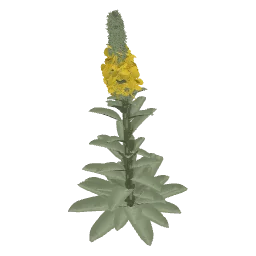
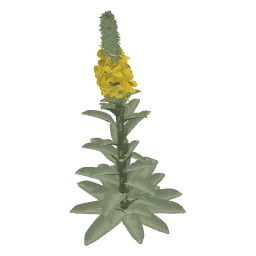
feat(templates): the mullein's rosette sits on a spiral
The 26–42 rosette leaves no longer sit on a 4.5 cm crown stem 3.2 cm
thick that only anchored them and showed as a blob in the middle of the
young rosette. `spiral` gives their points over the same height and
`instance_from_points` places them. The curve that grew the stub goes,
the size curve already lets every leaf start in turn.

Refs #490

Changed region(s): [[0.25, 0.0312, 0.75, 0.9688]]

diff --git a/docs/PLANT_TEMPLATES.md b/docs/PLANT_TEMPLATES.md
@@ -410,7 +410,7 @@ Family Scrophulariaceae.
 
 **Structure:** A biennial 1–2 m tall. The rosette is 30–60 cm across, its leaves oblong, 15–45 cm, soft, grey-green, with a wavy margin, the inner ones more upright. The stem is stout and unbranched, its leaves get smaller toward the top and stand up more. The spike is 20–50 cm long and about 3–5 cm thick, packed with buds; only a band of it flowers at a time. The flowers are 1.5–3 cm across, five broad rounded yellow petals, almost flat.
 
-**Template:** a crown `stem` 4.5 cm long carries the rosette as one spiral: 26–42 leaves at the golden angle from its base to its tip. A curve of `alpha` lays the outer ones almost flat (0.26 rad) and stands the inner ones up (1.2 rad), a second one makes them longest a little inside the rim (up to 40–55 cm, by a `random` with `once` that scales all leaves of a plant) and less than half of that in the middle, and a `random` per leaf varies both. So the rosette is a mound 60–90 cm across, not a flat disc. A leaf is a node group around a `leaf_surface` with 5 variants and a wavy margin, grey-green with pale veins. The rosette bends its leaves less than the stem does (a `deform` of its own), so the outer ones lie on the ground instead of in it, and the crown has no `noise`: on a path this short it tilts the leaves every way.
+**Template:** a `spiral` that rises 4.5 cm carries the rosette: 26–42 leaves at the golden angle from the lowest to the highest. A curve of `alpha` lays the outer ones almost flat (0.26 rad) and stands the inner ones up (1.2 rad), a second one makes them longest a little inside the rim (up to 40–55 cm, by a `random` with `once` that scales all leaves of a plant) and less than half of that in the middle, and a `random` per leaf varies both. So the rosette is a mound 60–90 cm across, not a flat disc. A leaf is a node group around a `leaf_surface` with 5 variants and a wavy margin, grey-green with pale veins. The rosette bends its leaves less than the stem does (a `deform` of its own), so the outer ones lie on the ground instead of in it.
 
 The stem is 0.9–2.1 m tall, leans up to 0.1 rad and grows by `time` after the rosette. 16–26 leaves sit on its lower part, from just above the rosette, and 12–20 smaller ones above them, each at 42° ± 22° and 60° ± 18° from the stem and a `random` size. The lowest are a little shorter than the rosette leaves and they shrink steadily to the spike, so the plant is a cone of leaves from the rosette up. A `deform` bends every one of them by its own amount (−0.35 to 0.12 rad). Two `instance` nodes put a decurrent wing under each of them: a triangular `leaf` along the stem (−1.5 rad), curled around it by a `deform`, short under the lowest leaves so it stays above the ground.
 
